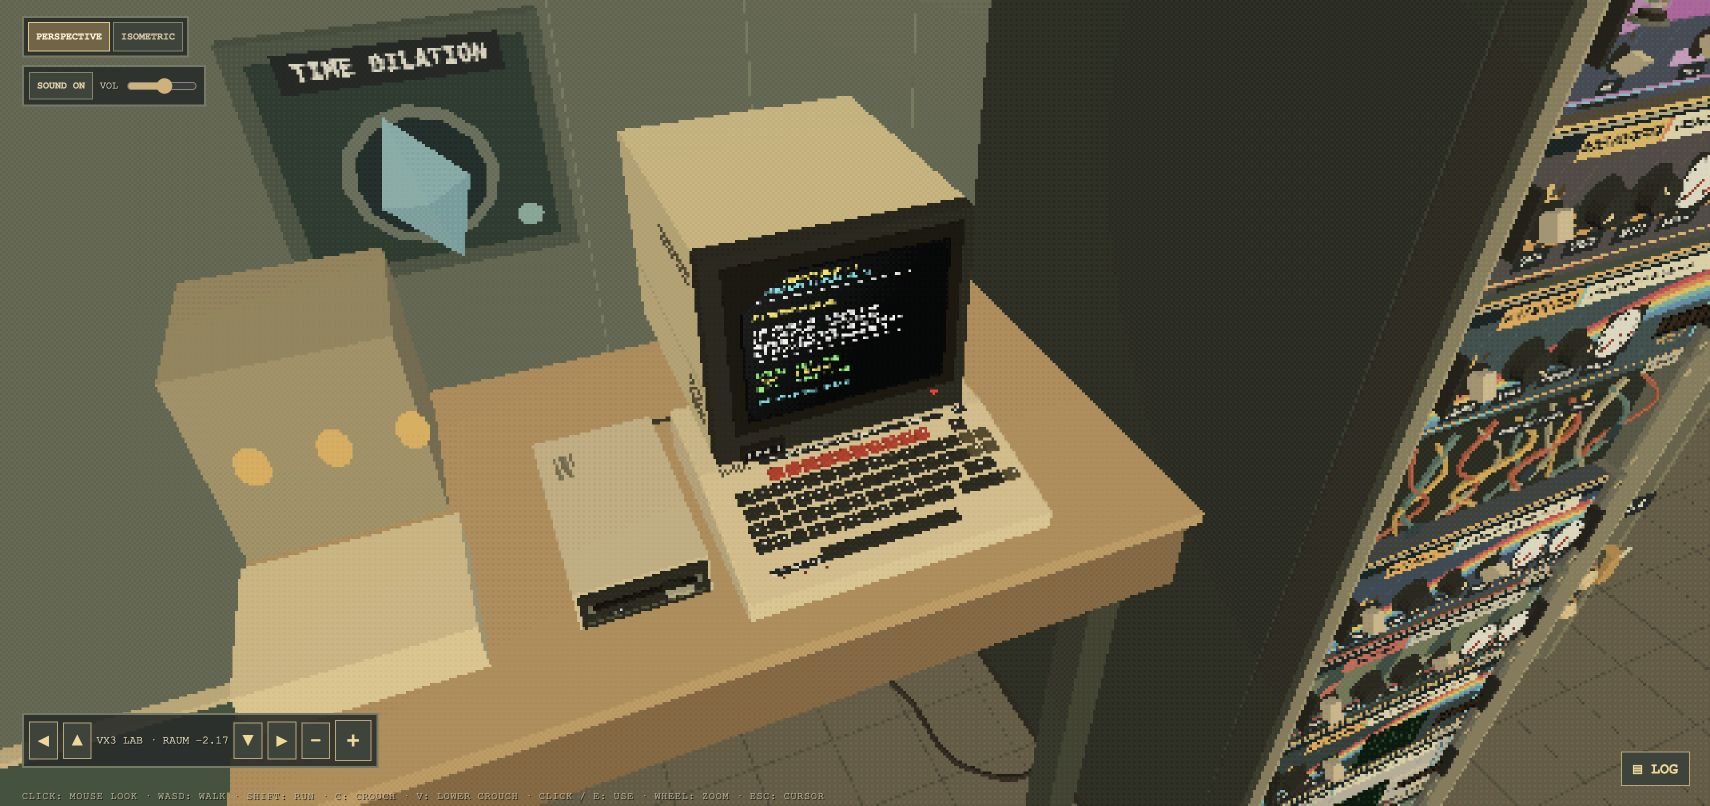
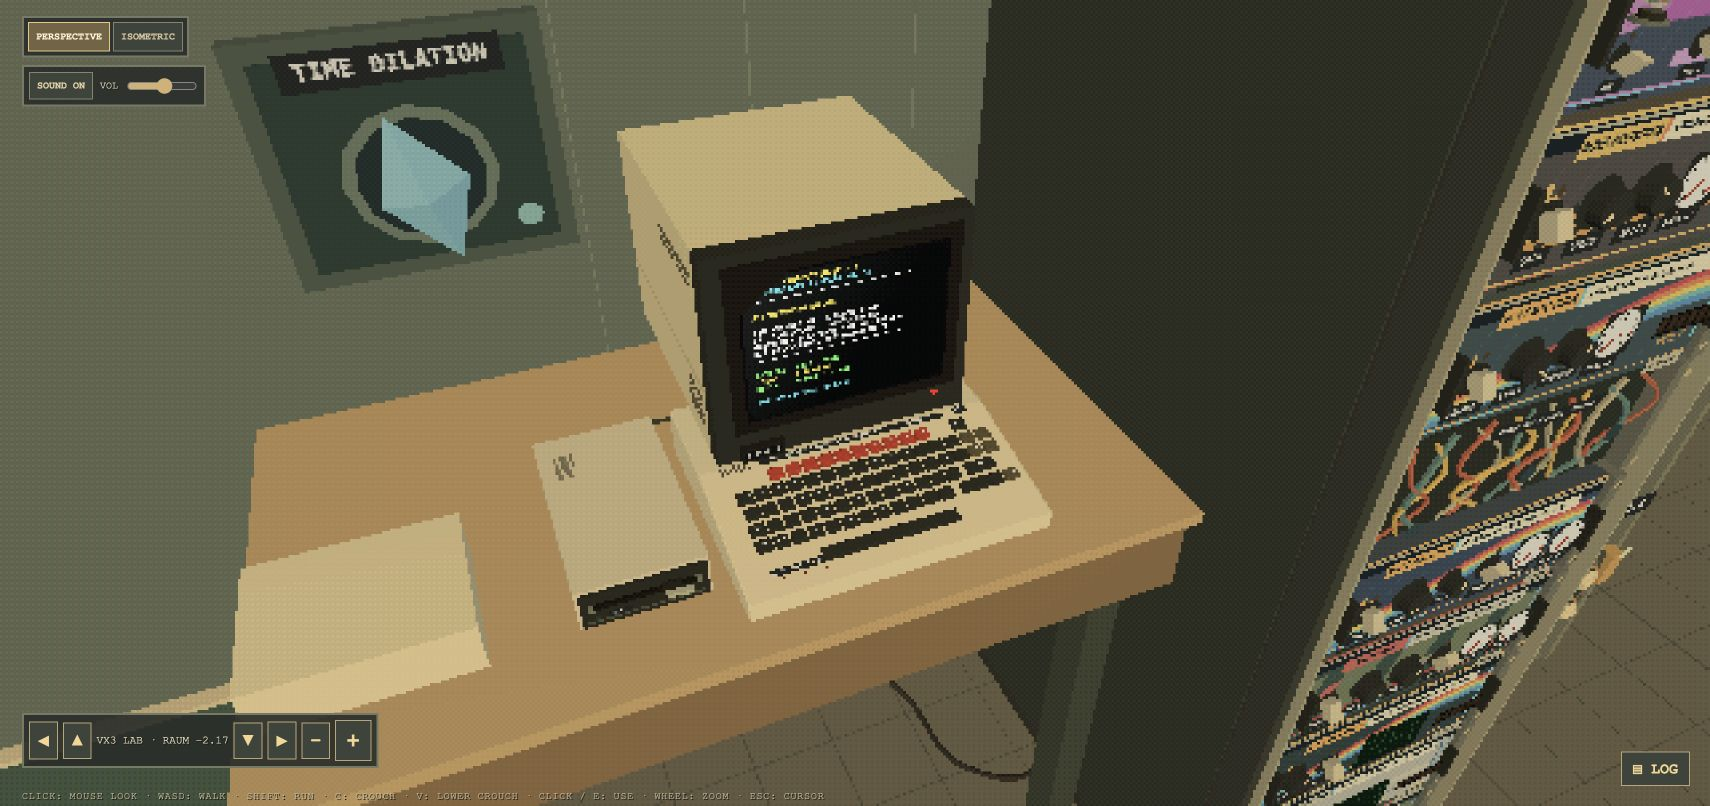
Verify BBC startup clues and document the completed bench setup

Changed region(s): [[0.093, 0.3102, 0.2789, 0.6824]]

diff --git a/src/game/bench-monitor.test.ts b/src/game/bench-monitor.test.ts
@@ -8,7 +8,7 @@ import {
   createBenchComputer,
 } from './bench-monitor';
 import { createRackControls, applyRack } from './rack-controls';
-import { createRig } from './rig';
+import { createRig, stepRig } from './rig';
 import { XENON_SPINDLE_LIMIT } from './xenon-supply';
 
 function running(spindle: number, xenonFlowSlpm: number) {
@@ -145,5 +145,34 @@ it('all pre-rendered clue pages fit the tube and use the same fixed twelve-row l
     expect(lines).toHaveLength(12);
     for (const [text] of lines)
       expect(text.length, text).toBeLessThanOrEqual(36);
+  }
+});
+
+it('can reach the ferrocore clue milestone by warming and driving the real rig, with no field excitation', () => {
+  const rig = createRig();
+  const rack = createRackControls();
+  rack.knobs.spindle = 0.2;
+  rack.knobs.field = 0;
+  applyRack(rack, rig.controls);
+  rig.controls.mains = true;
+  const inputs = { rig, rack, xenonFlowSlpm: 3, plantPowered: true };
+  expect(benchPage(inputs)).toBe('heaters');
+  for (let frame = 0; frame < 600; frame++) stepRig(rig, 1 / 60, () => 0.5);
+  expect(rig.spindle).toBeCloseTo(0.2);
+  expect(rig.field).toBe(0);
+  expect(benchPage(inputs)).toBe('cores-turning');
+});
+
+it('ships pre-rendered assets containing every displayed clue', () => {
+  const assets = import.meta.glob<string>('../../public/screens/bbc/*.svg', {
+    eager: true,
+    query: '?raw',
+    import: 'default',
+  });
+  for (const [id, lines] of Object.entries(bbcPages)) {
+    const svg = assets[`../../public/screens/bbc/${id}.svg`];
+    expect(svg).toContain('viewBox="0 0 320 240"');
+    for (const [text] of lines.filter(([text]) => text))
+      expect(svg, id).toContain(text);
   }
 });

diff --git a/index.html b/index.html
@@ -5,6 +5,7 @@
     <meta name="viewport" content="width=device-width, initial-scale=1.0" />
     <meta name="theme-color" content="#16130f" />
     <title>VX3 Simulator</title>
+    <link rel="icon" href="data:," />
     <meta
       name="description"
       content="Operate the original full VX3 rig in its basement lab at the University of Leipzig. Keep the Helmholtz-Blatz field trimmed. Log what happens when you don't."

diff --git a/src/rendering/start-scene.ts b/src/rendering/start-scene.ts
@@ -1178,7 +1178,7 @@ export function startScene(canvas: HTMLCanvasElement) {
           .slice(4, 10)
           .map(([text]) => text)
           .filter(Boolean)
-          .join('. ')
+          .join(' ')
       : 'Startvorgang';
     if (description !== benchDescription) {
       benchDescription = description;

diff --git a/README.md b/README.md
@@ -21,7 +21,7 @@ Click the left half of a rotary knob to turn anticlockwise and the right half to
 
 The fixed rack includes a varistance-isolated supply, a chromocore and valve bank, an Encabulator drive, a Holtzmann resonance coil, a Fromitz detector and an ion insulation check. A six-station ferrocore drum stands beside it, followed by a smaller cabinet holding a betaform amplifier, isolated-frame flux emitter and nanocore radiator. Volt Xoccula, Neumann Dynamik, Synclex, Wonshou Labs, Bonk Industries and Gorskiy appear on the fascias. The precise maker-to-unit pairings, painted liveries, panels and wiring shown here are the recreation's own designs. Borrowed community terms and invented local parts are distinguished in the [lore register](doc/lore/summary.md) and [component catalogue](doc/lore/component-catalogue.json). How every switch, knob and lever reaches the machine, and which lamps, needles and screens report back, is drawn in the [control graph](doc/design/control-graph.md).
 
-The surrounding laboratory includes an analogue wall clock, a map of global flux correlations, a test bench with a BBC Micro Model B beneath its Microvitec Cub monitor, an isolated wall socket, a floor mains lead, the cabinet aerial and a safety notice board. A small amber-glass ashtray sits on the west workbench beside the deep white porcelain sink, its last cigarette still burning. Below the map, a wall meter shows instantaneous load in kW and accumulated consumption in kWh; a prismatic Time Dilation tell-tale pulses as the field becomes active. Both respond to the connected apparatus in this recreation. Three period advertisements just above the west workbench offer differing accounts of VX equipment and its likely operators. Three reference drawers hold the operating guide, core-handling instructions and a redrawn signal path. A Neumann Dynamik teleprinter stands on a bracket fixed to the right-hand wall, with continuous-feed stock below and old output gathering on the floor. The printer is presently idle; its telemetry feed has not yet been connected. On the east wall stands a 1974 process board, rewired in 1986 as a remote station for the VX3. Its eighteen handles work the rack, including mains, emergency stop, purge and reset; its alarm windows flash until acknowledged with QUITT, and its channel grid, meters, trim pointers, trend screen and red readouts repeat the rack's state. The plate reading AUSSER BETRIEB has not been removed. Neither the wall map nor its pin lights is a substitute for local measurement.
+The surrounding laboratory includes an analogue wall clock, a map of global flux correlations, a test bench with a BBC Micro Model B beneath its Microvitec Cub monitor and a separate 5¼-inch disk drive, an isolated wall socket, a floor mains lead, the cabinet aerial and a safety notice board. A small amber-glass ashtray sits on the west workbench beside the deep white porcelain sink, its last cigarette still burning. Below the map, a wall meter shows instantaneous load in kW and accumulated consumption in kWh; a prismatic Time Dilation tell-tale pulses as the field becomes active. Both respond to the connected apparatus in this recreation. Three period advertisements just above the west workbench offer differing accounts of VX equipment and its likely operators. Three reference drawers hold the operating guide, core-handling instructions and a redrawn signal path. A Neumann Dynamik teleprinter stands on a bracket fixed to the right-hand wall, with continuous-feed stock below and old output gathering on the floor. The printer is presently idle; its telemetry feed has not yet been connected. On the east wall stands a 1974 process board, rewired in 1986 as a remote station for the VX3. Its eighteen handles work the rack, including mains, emergency stop, purge and reset; its alarm windows flash until acknowledged with QUITT, and its channel grid, meters, trim pointers, trend screen and red readouts repeat the rack's state. The plate reading AUSSER BETRIEB has not been removed. Neither the wall map nor its pin lights is a substitute for local measurement.
 
 ## Contributions from fellow VX Junkies
 
@@ -43,6 +43,8 @@ npm run build
 
 ## Construction record
 
-The cabinet and laboratory are rendered with Three.js. The three framed advertisements were generated for this recreation; their art direction is recorded in the [poster record](doc/art/poster-prompts.md). The sound effects are synthesised in code using Web Audio and [ZzFX](https://github.com/KilledByAPixel/ZzFX) (MIT); no recorded samples are used. The workstation also uses Vite (MIT), TypeScript (Apache-2.0), Vitest (MIT), ESLint (MIT) and Prettier (MIT).
+The cabinet and laboratory are rendered with Three.js. The three framed advertisements were generated for this recreation; their art direction is recorded in the [poster record](doc/art/poster-prompts.md). The apparatus sound effects are synthesised in code using Web Audio and [ZzFX](https://github.com/KilledByAPixel/ZzFX) (MIT). The BBC Micro uses a [two-second startup recording](src/audio/assets/README.md) supplied as a reference by the owner. The workstation also uses Vite (MIT), TypeScript (Apache-2.0), Vitest (MIT), ESLint (MIT) and Prettier (MIT).
 
 The plant room has the same internal dimensions as the laboratory, its own working steel door and 300 mm masonry walls. A mercury arc rectifier glows blue-white and buzzes when the master switch is closed. The xenon bank stands behind a working cage; its thick manifold and rubber hose connect to a labelled wall port immediately beside the cage. Opening the regulator raises delivery pressure and then indicated flow; the purple XE FLUSS lamp flashes below 2 SLPM. The sink initially drips about once every ten seconds. Working the hot tap on and off reseats its washer; its quiet drip can only be heard inside the laboratory.
+
+The BBC keyboard has sculpted keycaps, red function keys, a brown cursor cluster, lock lamps, a printed deck strip and rear sockets. Clicking the computer clears the Cub, replays its boot sound and loads the diagnostic disk; the drive lamp follows disk activity. This restarts the computer without resetting the apparatus. Ten original German pages advise on master power, rack power, xenon supply, heater warm-up, drive and governor settings, and excessive speed. When the powered spindle turns with sufficient xenon, the program reports FERROKERNE DREHEN SICH. The [screen record](doc/art/bbc-monitor/README.md) includes the pre-rendered pages.

diff --git a/doc/art/bbc-monitor/README.md b/doc/art/bbc-monitor/README.md
@@ -1,0 +1,22 @@
+# BBC Micro model and diagnostic screens
+
+The computer is original scene geometry based on the owner's reference photographs and the [Science Museum Model B record](https://collection.sciencemuseumgroup.org.uk/objects/co64142/bbc-model-b-microcomputer), which lists 410 mm width, 345 mm depth and 75 mm height. The case has a bevelled side profile and sloping dark keyboard well; the keycaps, red function row, brown cursor cluster, lock indicators, BBC strip and owl, vents, sockets and rocker are modelled individually. A separate cream-and-black 5¼-inch disk drive has a slot, guides, locking paddle, feet, vents, rear lead and an output-only activity lamp. The abstract calibration block with three oval knobs has been removed.
+
+The [boot audio record](../../../src/audio/assets/README.md) identifies the exact two-second recording. Clicking the BBC clears its screen and reboots its software; it leaves all machinery settings intact. Blank, ROM, BASIC and disk-loading phases precede the diagnostic pages. Resetting again replaces both the current boot and any playing boot sound.
+
+The [screen gallery](../../../public/screens/bbc/index.html) contains ten pre-rendered 320×240 SVG frames with original German text. The Cub loads these assets, overlays live readings and keeps the advice visible while a small attention marker flashes. The frame content is maintained in [bbc-pages.json](../../../src/game/bbc-pages.json); regenerate assets with `node scripts/render-bbc-pages.mjs`.
+
+| Frame         | Trigger and clue                                                            |
+| ------------- | --------------------------------------------------------------------------- |
+| master-off    | Switch on HAUPTSCHALTER in the plant room. The computer has its own supply. |
+| rack-off      | Close the rack breaker, then let the valves warm.                           |
+| xenon-low     | Open the cage and increase flow to at least 2 SLPM.                         |
+| speed-high    | Reduce SPEED; check xenon and the governor limit.                           |
+| heaters       | Wait for warm valves. Keep field excitation low.                            |
+| drive-off     | Switch SPIN on at the drive.                                                |
+| governor      | Raise the governor LIMIT above zero.                                        |
+| drive-ready   | Increase drive SPEED gradually and observe the six-core drum.               |
+| starting      | Wait while the spindle accelerates.                                         |
+| cores-turning | Acknowledge actual powered rotation with sufficient xenon.                  |
+
+The successful rotation screen is a clue milestone for the proposed first win. It does not invent a reward system or require field excitation merely to make the drum rotate. Tests exercise real heater/spindle progression, hazards, page selection, reset timing, layout bounds and asset/content consistency.

diff --git a/diary/2026-10-12_bbc-computer-and-startup-clues.md b/diary/2026-10-12_bbc-computer-and-startup-clues.md
@@ -1,0 +1,28 @@
+# Development Diary Entry - 2026-10-12
+
+## Context
+
+- **Date**: 2026-10-12
+- **Branch**: main
+- **Commit**: recorded after verification
+- **Contributors**: creative implementation agent and owner
+
+## Problem Statement
+
+The BBC model lacked convincing keyboard and case detail, clicking it did nothing, and its monitor offered only one English warning. The owner requested the reference startup audio, German help screens for spinning the ferrocores, an external disk drive, removal of the three-oval placeholder, a restart when ready, and a commit and push.
+
+## Our Approach
+
+Model the hardware from the supplied photographs at museum dimensions. Keep computer reset separate from machine controls. Pre-render German clue frames and select them from actual plant, gas, heater and drive state. Use the exact two-second reference clip in the spatial sound engine. Preserve the existing browser page until the owner authorises restart.
+
+## Implementation
+
+A bevelled case, dark keyboard well, individual sculpted caps and legends, function keys, brown cursor keys, lock LEDs, badges, vents and sockets replace the simplified BBC. A separate 5¼-inch drive and rear lead sit beside it, with a reduced-motion-aware disk-activity light. The old calibration block is removed. Clicking the BBC restarts blank/ROM/BASIC/disk phases and replaces any boot playback while leaving the apparatus intact. Ten original German SVG frames provide diagnostics and commissioning clues, with live readings added on the Cub. FERROKERNE DREHEN SICH requires actual spindle motion, machinery power, warm heaters and sufficient xenon. Reference, regeneration and provenance records are in doc/art/bbc-monitor and src/audio/assets.
+
+## Outcomes
+
+Browser testing confirmed the new hardware and disk fit on the bench, clicking the BBC starts a fresh boot, and repeated clicks restart it without errors. Automated tests cover the real rig reaching ferrocore rotation without field excitation, reset timing, all prerequisites and fault priorities, frame bounds and asset consistency. Final check results and the resulting commit are reported in the completion message.
+
+## Next Steps
+
+Design the persistent first-win objective and rewards separately from these commissioning clues.

diff --git a/AGENTS.md b/AGENTS.md
@@ -35,5 +35,5 @@ A PS1-style browser bench toy simulating a historical "full" VX3 rig from r/VXJu
 - `src/scene/` has one `create*` factory per lab fitting or room (lab room, corridor, ceiling services, teleprinter, Cub monitor and so on), each returning objects that `start-scene.ts` places.
 - Everything fitted to a machine is designated an **input** (worked by the operator; clickable) or an **indicator** (driven by machine state; never clickable) via `src/game/machine-parts.ts`. In `start-scene.ts`, use `input()` and `indicator()` for machine parts and `fixture()` for clickable room fittings (doors, drawers, taps); never call `bind()` directly. Development builds audit the scene on load and log any violation; `vx3Walker.parts()` lists every machine's inputs and indicators.
 - `src/rendering/ps1-material.ts`: meshes use `createPs1Material` (vertex snapping via the shared `ps1Uniforms`; `unlit` for printed surfaces that dim with `roomLight`, `glow` for self-lit screens and tubes).
-- `src/audio/`: `sound-parameters.ts` maps rig state and controls to plain numbers (tested); `sound-engine.ts` drives Web Audio and ZzFX from them. All sound is synthesised; there are no samples.
+- `src/audio/`: `sound-parameters.ts` maps rig state and controls to plain numbers (tested); `sound-engine.ts` drives Web Audio and ZzFX from them. Apparatus sounds are synthesised; the only recording is the BBC Micro boot chime in `src/audio/assets/` (provenance in its README), so ask the owner before adding another.
 - Lore lives in `doc/lore/`: `summary.md` separates borrowed community terms from invented local parts, and modules in the catalogue are marked `provenance: 'invented'`. Keep that distinction when adding apparatus.

diff --git a/doc/plan.md b/doc/plan.md
@@ -15,3 +15,5 @@ Tie the fixed modules into a deeper, staged power and measurement model. Give th
 The full-sized plant room beside the laboratory is fitted with a working door, xenon cage, German safety poster, wall supply port, mercury arc rectifier and master throw switch. Continuous rotary inputs turn in either direction according to the clicked half, with body and marker rotating about one shaft and fixed end stops. Switch and knob positions remain operator inputs; gauges, valves, lamps and screens report machine state. The sink drip is quiet and confined to the lab, and stops after the hot tap is opened and closed.
 
 Every rotary control owns its setting. Plasma excitation and null are separate from coil field and trim; detector, chamber and betaform gain are separate; rotary band selectors neither move each other nor overwrite drive ratio. Plasma excitation limits the resulting field, and null offset contributes to field instability while leaving operator knob positions unchanged.
+
+The BBC Model B and matching 5¼-inch disk drive use original detailed geometry. Clicking the computer clears and reboots the Cub with the reference audio excerpt and a disk-activity lamp. Ten pre-rendered German clue and diagnostic pages follow the actual commissioning state and acknowledge powered, xenon-supplied ferrocore rotation. This supplies the first-win clue sequence; a persistent objective/reward system remains to be designed. The three-knob placeholder calibration block has been removed.
